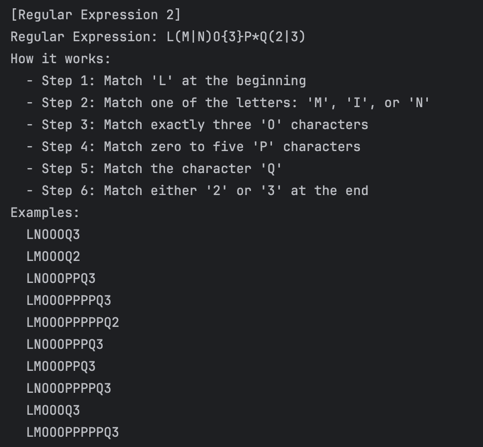
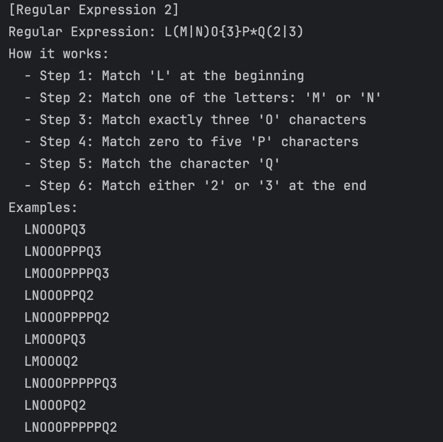
fix: corrected step for RE2

Changed region(s): [[0.0, 0.0, 0.8804, 1.0]]

diff --git a/4_RegularExpressions/steps.py b/4_RegularExpressions/steps.py
@@ -10,7 +10,7 @@ def steps(regex_name):
 
     elif regex_name == "regex_2":
         explanation.append("Step 1: Match 'L' at the beginning")
-        explanation.append("Step 2: Match one of the letters: 'M', 'I', or 'N'")
+        explanation.append("Step 2: Match one of the letters: 'M' or 'N'")
         explanation.append("Step 3: Match exactly three 'O' characters")
         explanation.append("Step 4: Match zero to five 'P' characters")
         explanation.append("Step 5: Match the character 'Q'")

diff --git a/4_RegularExpressions/REPORT_4.md b/4_RegularExpressions/REPORT_4.md
@@ -137,7 +137,7 @@ class Steps:
 
         elif regex_name == "regex_2":
             explanation.append("Step 1: Match 'L'")
-            explanation.append("Step 2: Match 'M', 'I', or 'N'")
+            explanation.append("Step 2: Match 'M' or 'N'")
             explanation.append("Step 3: Match exactly 3 'O's")
             explanation.append("Step 4: Match 0 to 5 occurrences of 'P'")
             explanation.append("Step 5: Match 'Q'")
